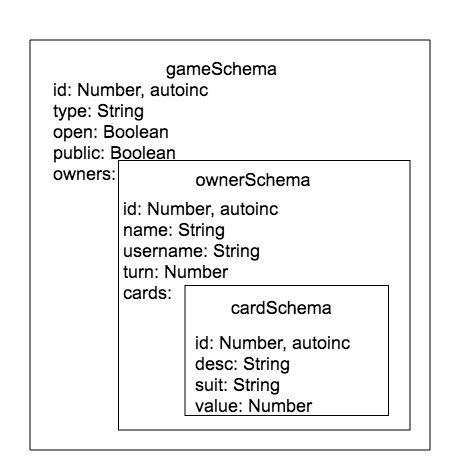
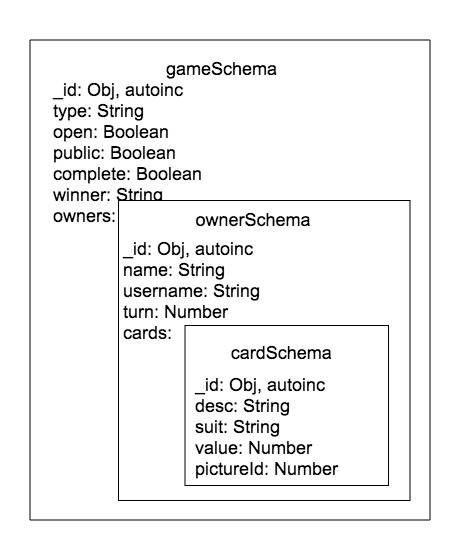
(fix) Change drawDeck identifier and cleaned up console logs

Changed region(s): [[0.0622, 0.0596, 0.9644, 0.983]]

diff --git a/server/routes/drawCard.js b/server/routes/drawCard.js
@@ -3,7 +3,7 @@ const express = require('express');
 const router = express.Router();
 const { findGame, updateGame } = require('../../db/helpers');
 
-router.route('/:gameId/:playerId/:drawDeckId')
+router.route('/:gameId/:playerId/:deckName')
   .get((req, res) => {
     console.log(req.params);
     const getGame = new Promise((resolve, reject) => {
@@ -13,23 +13,18 @@ router.route('/:gameId/:playerId/:drawDeckId')
     getGame
     .then(game => {
       if (!game) { throw err; }
-      console.log('game passed back to route', game);
       let card;
 
       for (let i = 0; i < game.owners.length; i++) {
         if (game.owners[i]._id.toString() === req.params.playerId) {
-          console.log('found right player deck to insert draw card');
           if (game.owners[i].cards.length > 7) { 
             res.status(403).send('You have already drawn a card this turn');
             return; 
           }
           for (let j = game.owners.length - 1; j >= 0; j--) {
-            if (game.owners[j]._id.toString() === req.params.drawDeckId) {
-              console.log('found right draw deck');
+            if (game.owners[j].name === req.params.deckName) {
               card = game.owners[j].cards.pop();
-              console.log(`drew ${card} from deck ${req.params.drawDeckId}`);
               game.owners[i].cards.push(card);
-              console.log(`${card} inserted into deck ${req.params.playerId}`);
               break;
             }
           }

diff --git a/server/routes/discard.js b/server/routes/discard.js
@@ -6,7 +6,6 @@ import isHandWinning from './gameWinningHand';
 
 router.route('/:gameId/:playerId/:cardId')
   .get((req, res) => {
-    console.log('in discard');
     const getGame = new Promise((resolve, reject) => {
       findGame(req.params.gameId, resolve);
     });
@@ -27,6 +26,7 @@ router.route('/:gameId/:playerId/:cardId')
                 game.complete = true;
                 game.winner = game.owners[i].name;
                 updateGame(req.params.gameId, game, res);
+                break;
               }
             }
           }

diff --git a/server/routes/newDeck.js b/server/routes/newDeck.js
@@ -3,10 +3,11 @@ class Deck {
     this.descs = ['A', '2', '3', '4', '5', '6', '7', '8', '9', '10', 'J', 'Q', 'K'];
     this.suits = ['♥', '♣', '♦', '♠'];
     let cards = [];
+    let pictureId = 1;
 
     for (let suit = 0; suit < this.suits.length; suit++ ) {
       for (let desc = 0; desc < this.descs.length; desc++ ) {
-        cards.push({value: desc + 1, desc: this.descs[desc], suit: this.suits[suit]});
+        cards.push({value: desc + 1, desc: this.descs[desc], suit: this.suits[suit], pictureId: pictureId++});
       }
     }
 

diff --git a/db/index.js b/db/index.js
@@ -9,7 +9,9 @@ mongoose.Promise = global.Promise;
 
 const cardSchema = new Schema({
   desc: String,
-  suit: String
+  suit: String,
+  pictureId: Number,
+  value: Number
 });
 
 const ownerSchema = new Schema({
